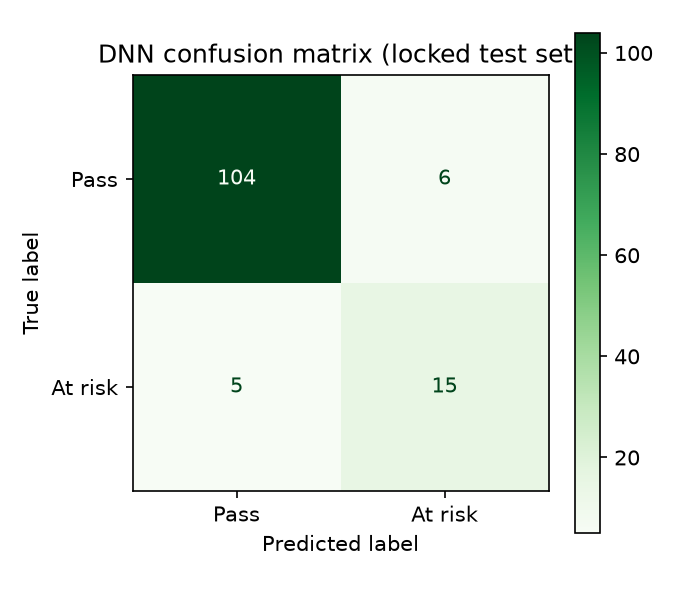
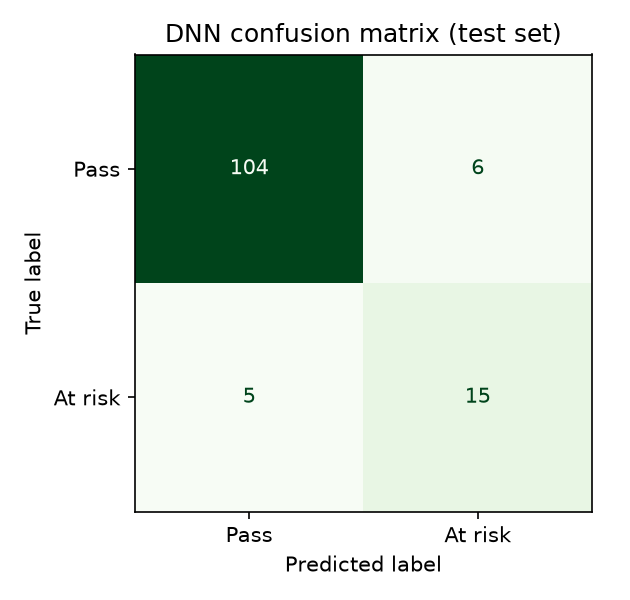
feat: polished single-model Streamlit app and clearer confusion plot
Grouped inputs (demographic, academic, social, behavioural) with codebook
labels, live Pass / At-risk result with probability and cut-off, occlusion
explanation of the inputs the model uses, warning for out-of-range absences,
and a Model performance tab with locked-test metrics and baseline table.
Inference loads the saved pipeline and orders columns exactly as in training.

diff --git a/app.py b/app.py
@@ -36,6 +36,14 @@ st.markdown("""<style>
   .pass {background: #dcfce7; color: #166534;}
   .risk {background: #fee2e2; color: #991b1b;}
   .muted {color: #71717a; font-size: 0.9rem;}
+  /* keep the result panel in view while scrolling the form (desktop widths only) */
+  @media (min-width: 900px) {
+    div[data-testid="stColumn"]:has(.result-anchor) {position: sticky; top: 3.5rem; align-self: flex-start;}
+  }
+  /* on phones the columns stack: show the result above the long form */
+  @media (max-width: 899px) {
+    div[data-testid="stHorizontalBlock"]:has(.result-anchor) {flex-direction: column-reverse;}
+  }
 </style>""", unsafe_allow_html=True)
 
 
@@ -97,6 +105,7 @@ with predict_tab:
                     student[c] = field(st, c)
 
     with result_col:
+        st.markdown('<div class="result-anchor"></div>', unsafe_allow_html=True)
         with st.container(border=True):
             p = float(risk([student])[0])
             at_risk = p >= THRESHOLD

diff --git a/src/evaluate.py b/src/evaluate.py
@@ -149,9 +149,10 @@ def evaluate(params, train, test):
 
 def plots(models, test):
     dnn = models[DNN]
-    fig, ax = plt.subplots(figsize=(4.5, 4))
-    ConfusionMatrixDisplay.from_estimator(dnn, test, test["at_risk"], display_labels=["Pass", "At risk"], cmap="Greens", ax=ax)
-    ax.set_title("DNN confusion matrix (locked test set)")
+    fig, ax = plt.subplots(figsize=(4.2, 4))
+    ConfusionMatrixDisplay.from_estimator(dnn, test, test["at_risk"], display_labels=["Pass", "At risk"], cmap="Greens",
+                                          colorbar=False, ax=ax)
+    ax.set_title("DNN confusion matrix (test set)")
     fig.tight_layout(); fig.savefig(f"{FIG}/confusion.png", dpi=150); plt.close(fig)
 
     fig, ax = plt.subplots(figsize=(5.5, 5))
